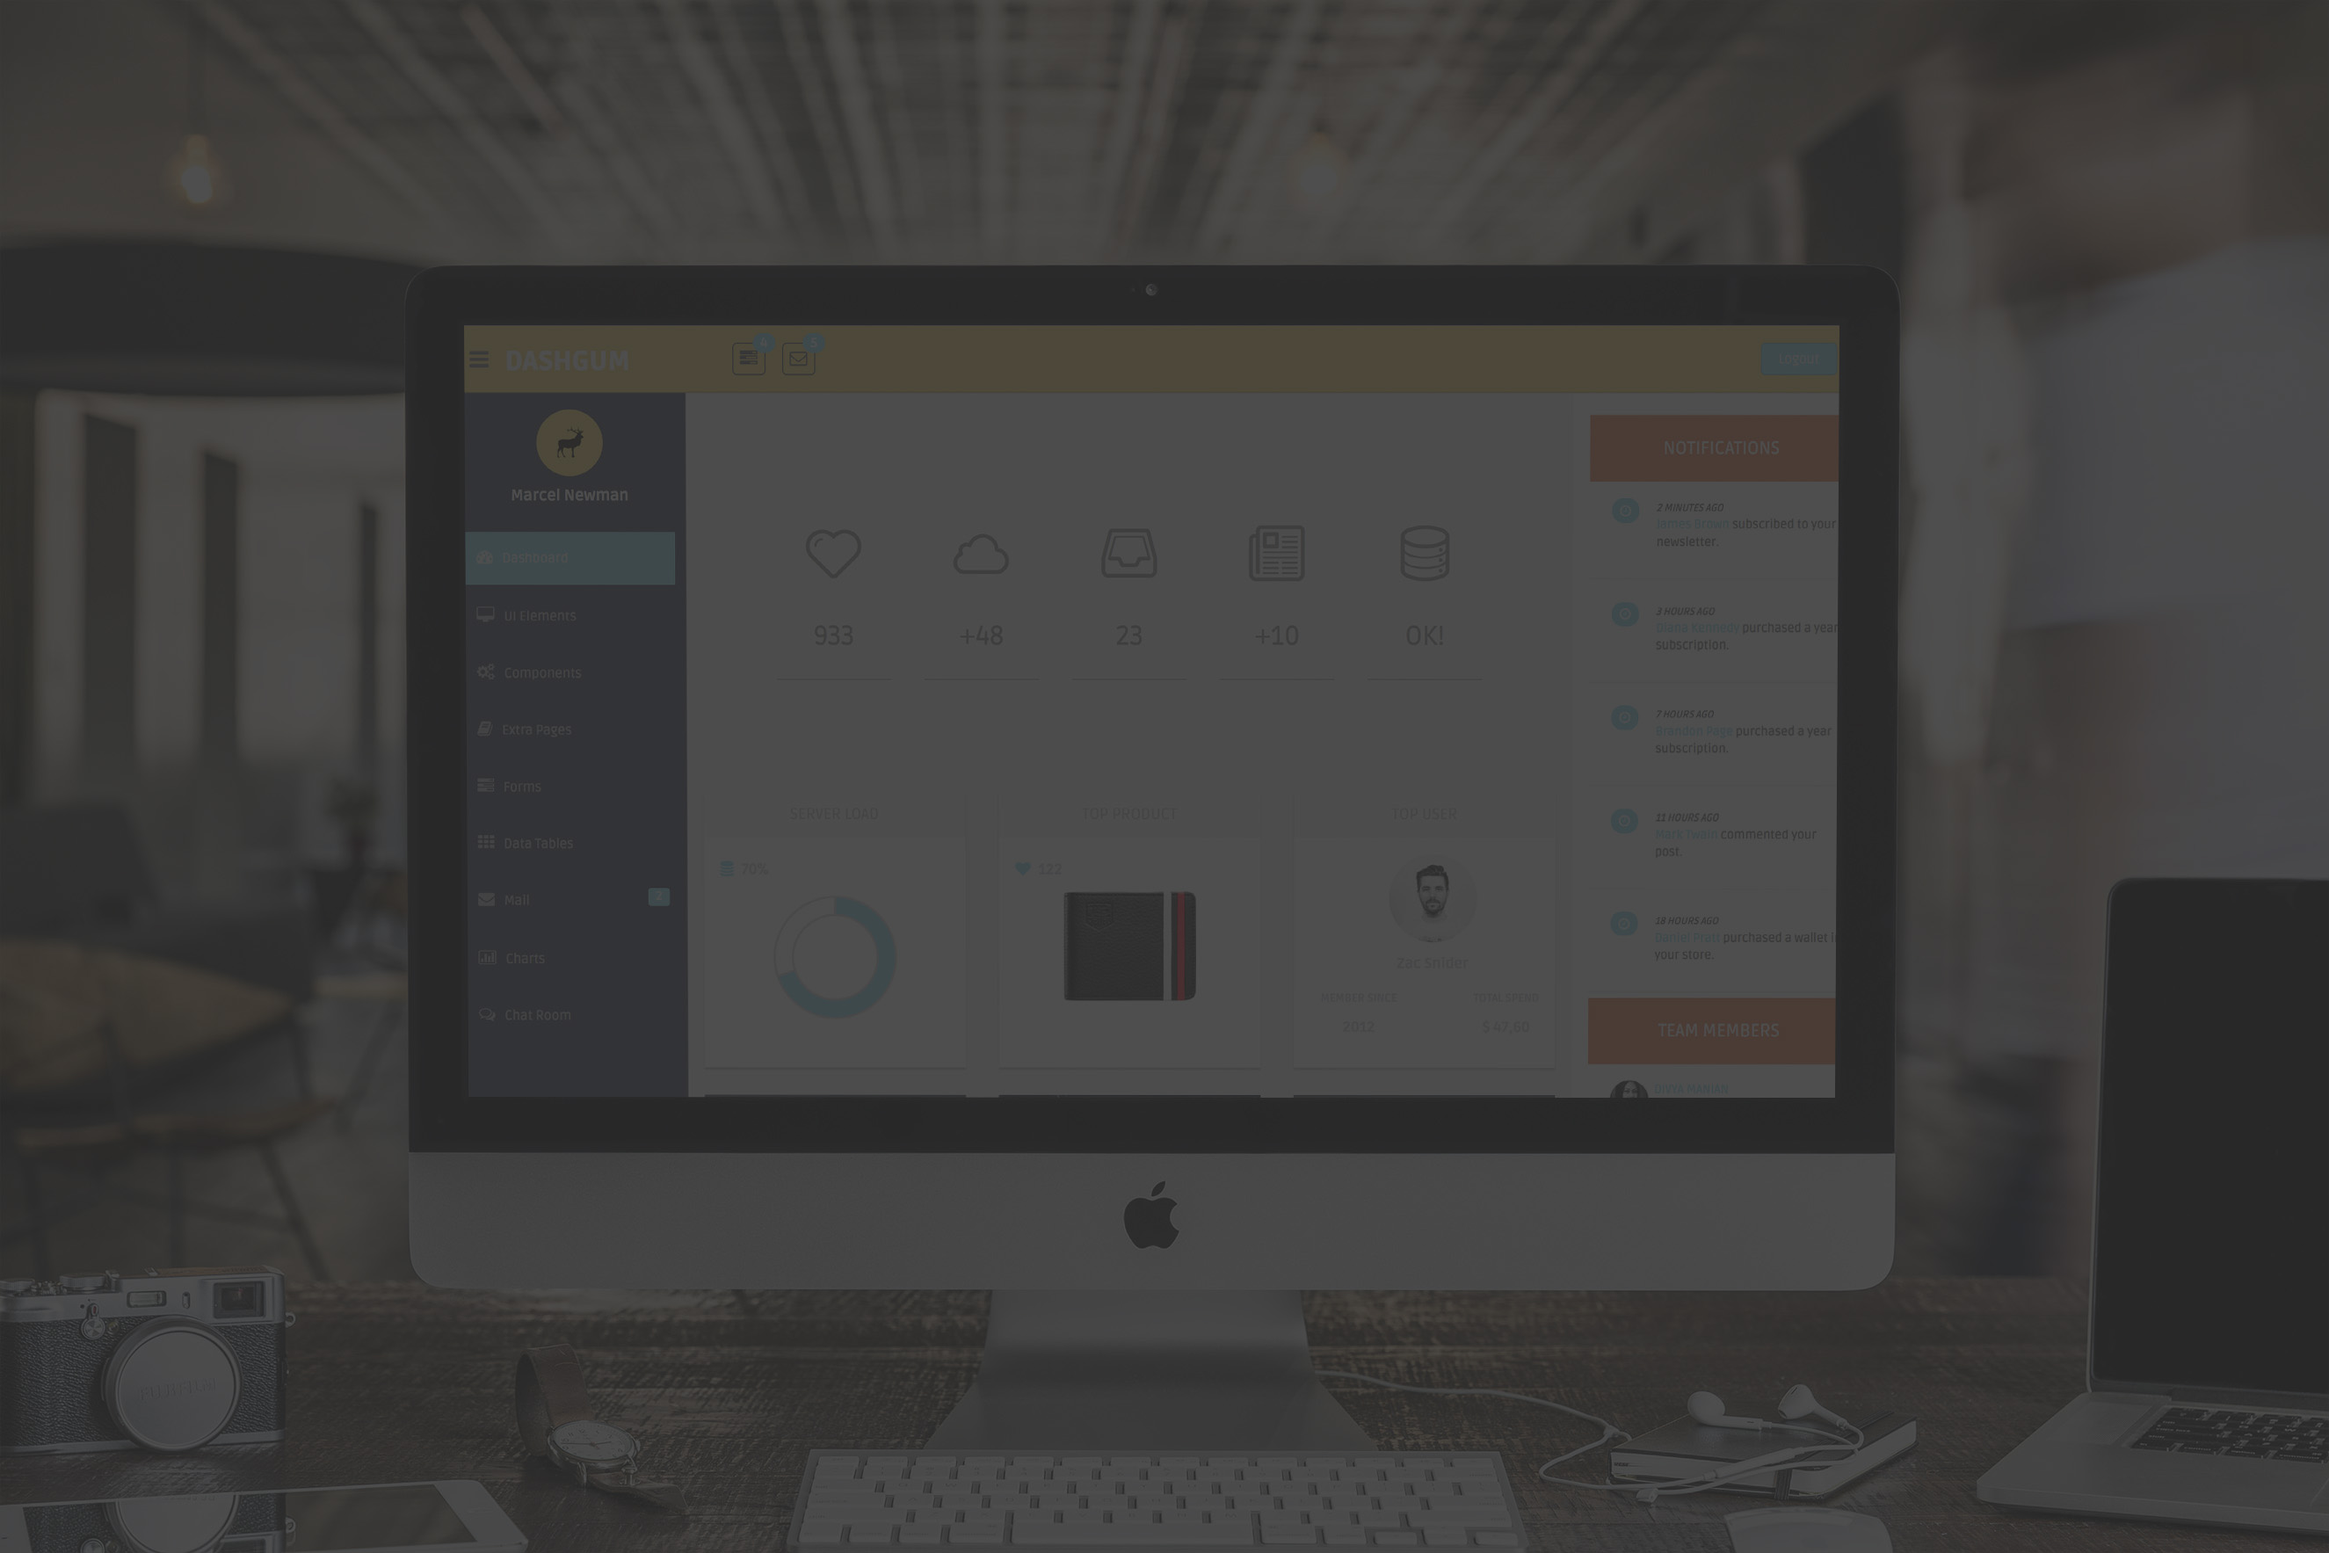
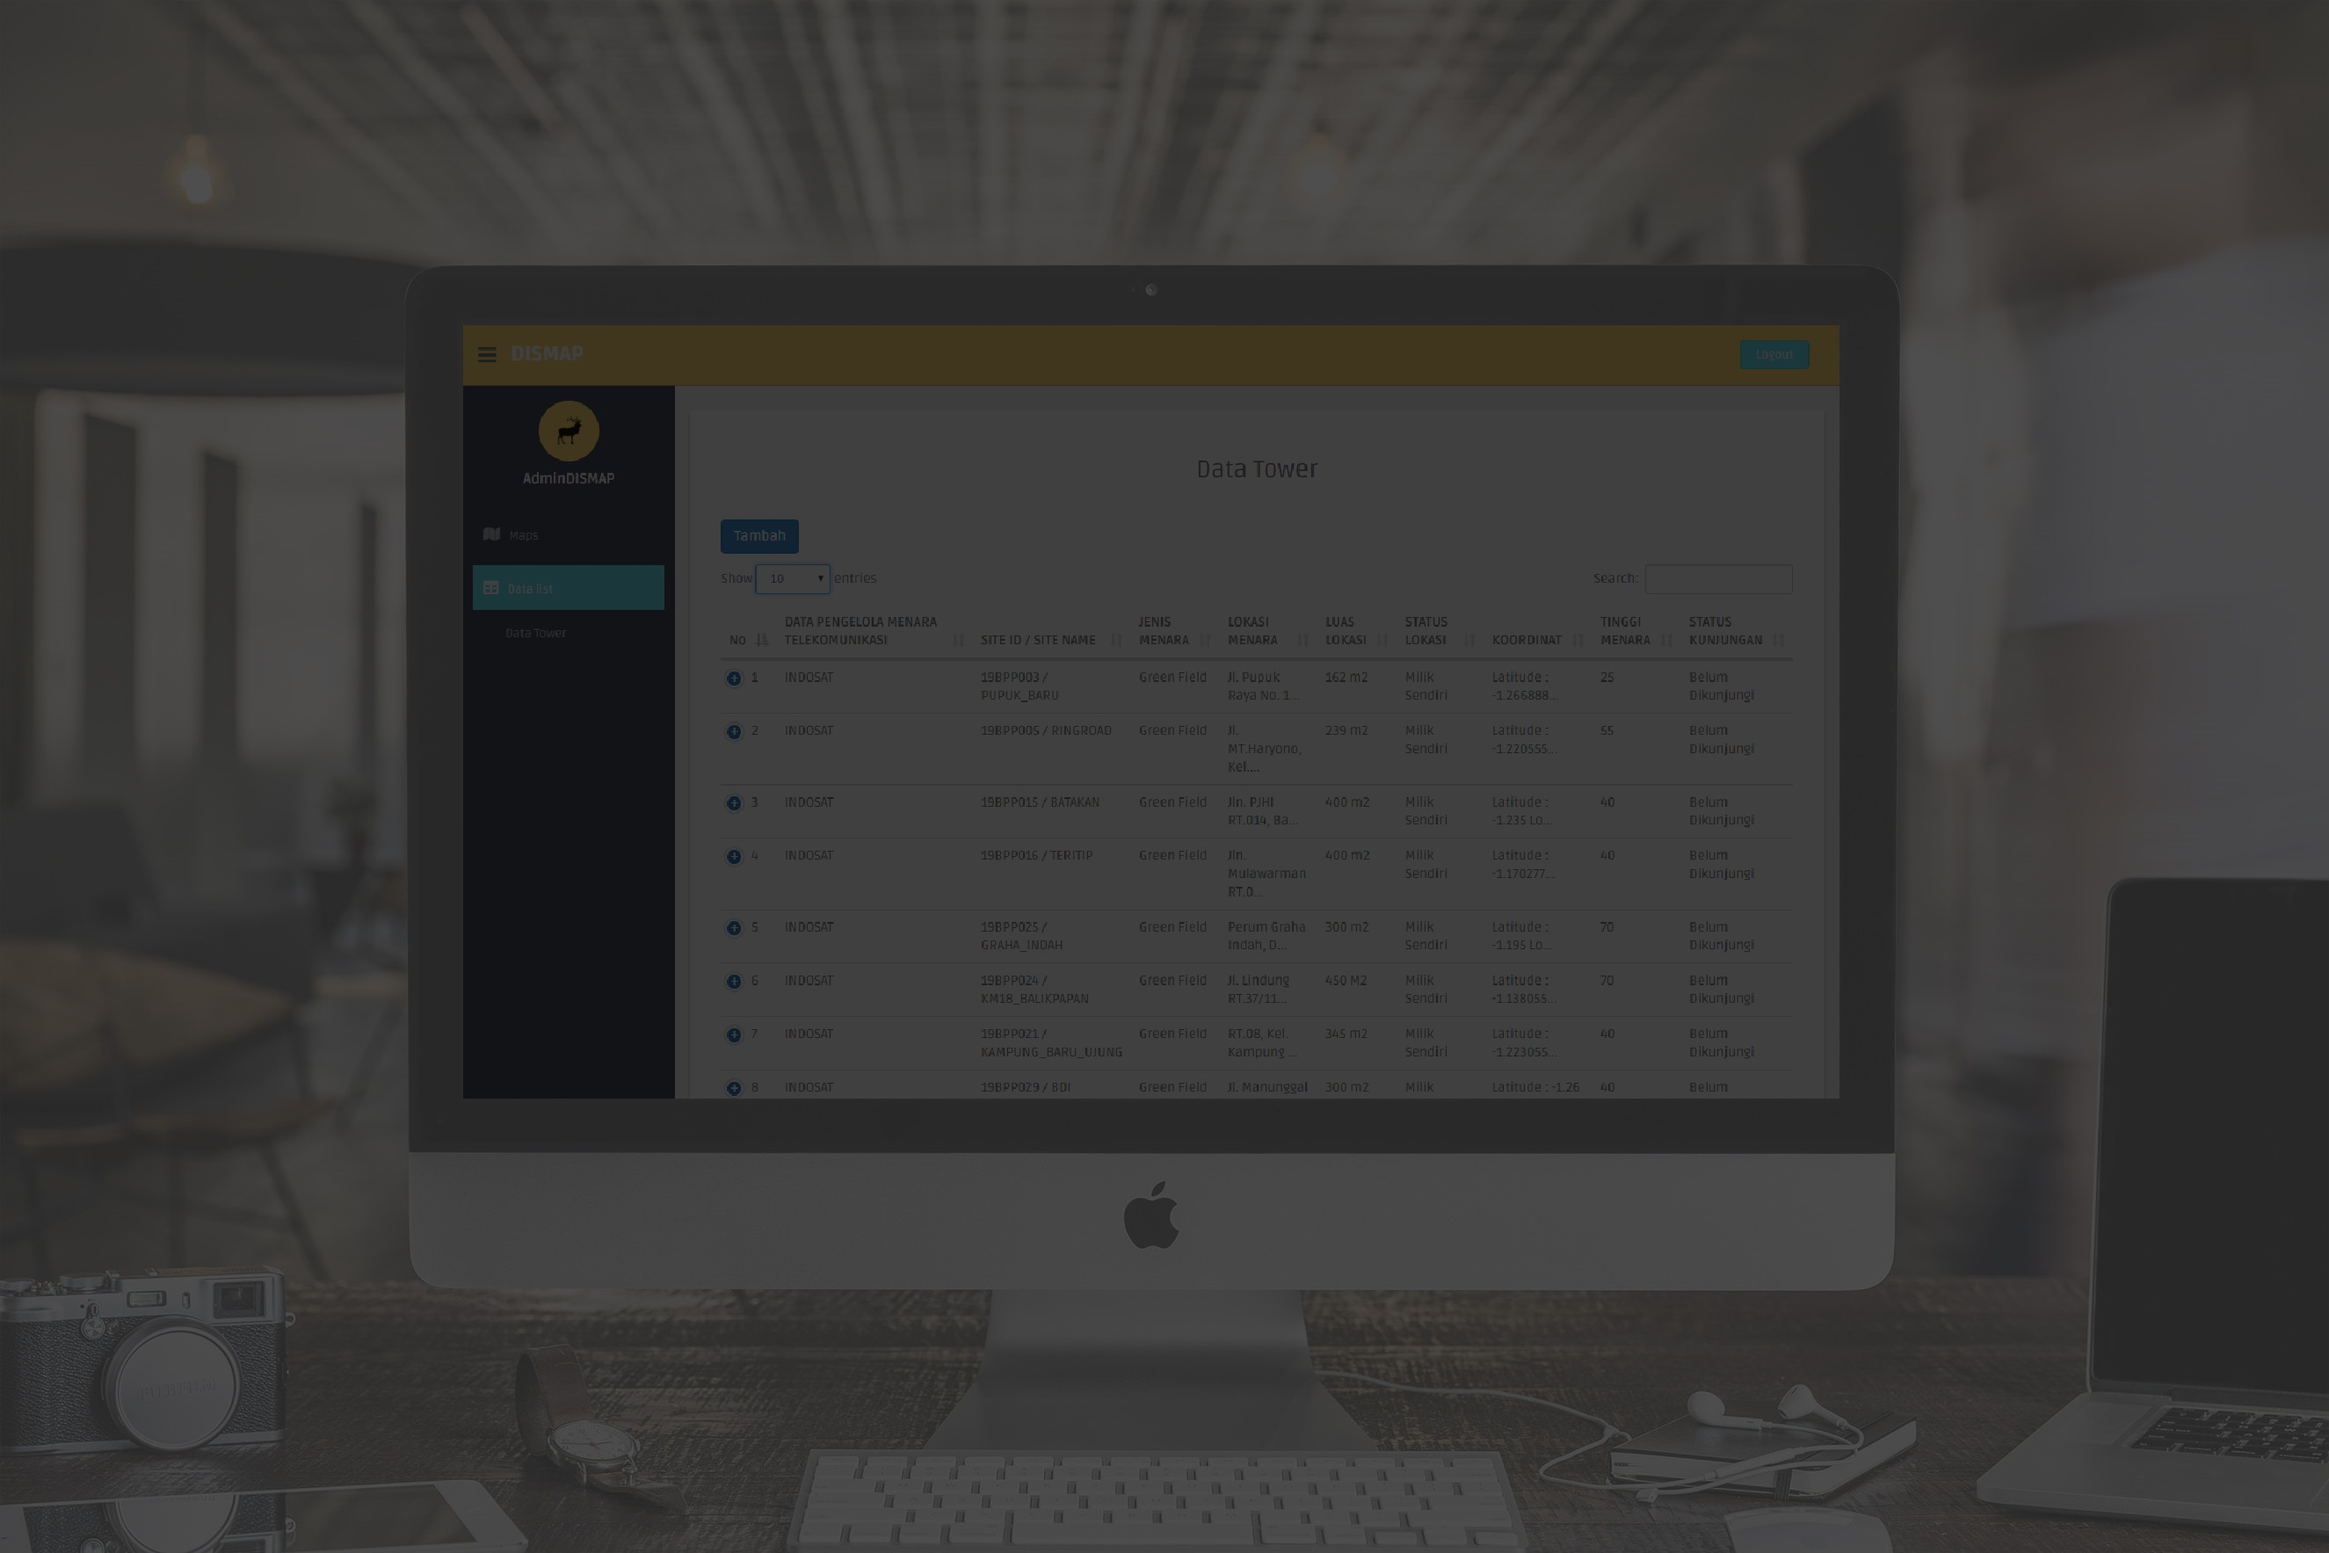
done auth

diff --git a/resources/views/dismap/login.blade.php b/resources/views/dismap/login.blade.php
@@ -1,0 +1,73 @@
+<!DOCTYPE html>
+<html lang="en">
+  <head>
+    <meta charset="utf-8">
+    <meta name="viewport" content="width=device-width, initial-scale=1.0">
+    <meta name="description" content="">
+    <meta name="author" content="Dashboard">
+    <meta name="keyword" content="Dashboard, Bootstrap, Admin, Template, Theme, Responsive, Fluid, Retina">
+
+    <title>DISMAP</title>
+
+    <!-- Bootstrap core CSS -->
+    <link href="{{ asset('assets/css/bootstrap.css') }}" rel="stylesheet">
+    <!--external css-->
+    <link href="{{ asset('assets/font-awesome/css/font-awesome.css') }}" rel="stylesheet" />
+        
+    <!-- Custom styles for this template -->
+    <link href="{{ asset('assets/css/style.css') }}" rel="stylesheet">
+    <link href="{{ asset('assets/css/style-responsive.css') }}" rel="stylesheet">
+
+    <!-- HTML5 shim and Respond.js IE8 support of HTML5 elements and media queries -->
+    <!--[if lt IE 9]>
+      <script src="https://oss.maxcdn.com/libs/html5shiv/3.7.0/html5shiv.js"></script>
+      <script src="https://oss.maxcdn.com/libs/respond.js/1.4.2/respond.min.js"></script>
+    <![endif]-->
+  </head>
+
+  <body>
+
+      <!-- **********************************************************************************************************************************************************
+      MAIN CONTENT
+      *********************************************************************************************************************************************************** -->
+
+	  <div id="login-page">
+	  	<div class="container"> 	
+            <form class="form-login" action="" method="POST">
+                <h2 class="form-login-heading">sign in now</h2>
+                <div class="login-wrap">
+                    @if (session()->has('message'))
+                    <div class="alert alert-danger">
+                        <button class="close" data-dismiss="alert" aria-hidden="true">&times;</button>
+                        <strong>Warning ! </strong> {{ session('message') }}
+                    </div>
+                    @endif
+                    {{ csrf_field() }}
+                    <input type="text" class="form-control" placeholder="Username" name="username" autofocus autocomplete="off">
+                    <br>
+                    <input type="password" class="form-control" placeholder="Password" name="password">
+                    <label class="checkbox">
+                        <span class="pull-right">
+                            <a data-toggle="modal" href="login.html#myModal"> Forgot Password?</a>
+                        </span>
+                    </label>
+                    <button class="btn btn-theme btn-block" type="submit"><i class="fa fa-lock"></i> SIGN IN</button>
+                </div>
+            </form>	  	
+	  	</div>
+	  </div>
+
+    <!-- js placed at the end of the document so the pages load faster -->
+    <script src="{{ asset('assets/js/jquery.js') }}"></script>
+    <script src="{{ asset('assets/js/bootstrap.min.js')}}"></script>
+
+    <!--BACKSTRETCH-->
+    <!-- You can use an image of whatever size. This script will stretch to fit in any screen size.-->
+    <script type="text/javascript" src="assets/js/jquery.backstretch.min.js"></script>
+    <script>
+        $.backstretch("{{ asset('assets/img/login-bg.jpg') }}", {speed: 500});
+    </script>
+
+
+  </body>
+</html>

diff --git a/app/Http/Controllers/Auth/LoginController.php b/app/Http/Controllers/Auth/LoginController.php
@@ -2,38 +2,36 @@
 
 namespace App\Http\Controllers\Auth;
 
+use Auth;
+use App\User;
+use Illuminate\Http\Request;
 use App\Http\Controllers\Controller;
 use Illuminate\Foundation\Auth\AuthenticatesUsers;
 
 class LoginController extends Controller
 {
-    /*
-    |--------------------------------------------------------------------------
-    | Login Controller
-    |--------------------------------------------------------------------------
-    |
-    | This controller handles authenticating users for the application and
-    | redirecting them to your home screen. The controller uses a trait
-    | to conveniently provide its functionality to your applications.
-    |
-    */
+    public function logout(){
+        Auth::logout();
+    
+        return redirect('/login');
+      }
 
-    use AuthenticatesUsers;
+    public function login(){
+         return view('dismap/login');
+    }
+    
+    public function authenticate(Request $request){
+        $username = User::where('username', $request->username)->first();
 
-    /**
-     * Where to redirect users after login.
-     *
-     * @var string
-     */
-    protected $redirectTo = '/home';
-
-    /**
-     * Create a new controller instance.
-     *
-     * @return void
-     */
-    public function __construct()
-    {
-        $this->middleware('guest')->except('logout');
+         if ($username != null) {
+            $berhasil = Auth::attempt(['username'=>$request->username, 'password'=>$request->password]);
+            if($berhasil){
+                return redirect('/dismap/maps');
+            }else{
+                return redirect()->back()->with('message', 'Username atau password salah.');
+            }
+        }else{
+            return redirect()->back()->with('message', 'Username tidak ditemukan.');
+        }
     }
 }

diff --git a/routes/web.php b/routes/web.php
@@ -10,12 +10,22 @@
 | contains the "web" middleware group. Now create something great!
 |
 */
+Route::get('/', function(){
+    return redirect('/login');
+});
 
-Route::get('/dismap/maps', 'PagesController@index');
+Route::get('/login', ['as' => 'login', 'uses' => 'Auth\LoginController@login']);
+Route::post('/login', 'Auth\LoginController@Authenticate');
 
-Route::get('/dismap/data-tower', 'PagesController@towerIndex');
-Route::post('/dismap/data-tower/add', 'DataController@towerStore');
-Route::get('/dismap/data-tower/edit/{id}', 'DataController@towerEdit');
-Route::post('/dismap/data-tower/edit/{id}', 'DataController@towerUpdate');
-Route::get('/dismap/data-tower/view/{id}', 'DataController@towerView');
-Route::get('/dismap/data-tower/delete/{id}', 'DataController@towerDestroy');
+Route::group(['middleware'=>'auth'], function(){
+    Route::get('/dismap/maps', 'PagesController@index');
+    
+    Route::get('/dismap/data-tower', 'PagesController@towerIndex');
+    Route::post('/dismap/data-tower/add', 'DataController@towerStore');
+    Route::get('/dismap/data-tower/edit/{id}', 'DataController@towerEdit');
+    Route::post('/dismap/data-tower/edit/{id}', 'DataController@towerUpdate');
+    Route::get('/dismap/data-tower/view/{id}', 'DataController@towerView');
+    Route::get('/dismap/data-tower/delete/{id}', 'DataController@towerDestroy');
+
+    Route::get('/logout', 'Auth\LoginController@logout');
+});

diff --git a/resources/views/layouts/dashboard.blade.php b/resources/views/layouts/dashboard.blade.php
@@ -48,7 +48,7 @@
             </div>
             <div class="top-menu">
             	<ul class="nav pull-right top-menu">
-                    <li><a class="logout" href="login.html">Logout</a></li>
+                    <li><a class="logout" href="/logout">Logout</a></li>
             	</ul>
             </div>
         </header>
@@ -64,7 +64,7 @@
               <ul class="sidebar-menu" id="nav-accordion">
 
               	  <p class="centered"><a href="profile.html"><img src="{{ asset('assets/img/ui-sam.jpg')}}" class="img-circle" width="60"></a></p>
-              	  <h5 class="centered">Nama User Yang Sedang Login</h5>
+              	  <h5 class="centered">{{ Auth::user()->username }}</h5>
                   <li class="mt">
                       <a class="@yield('maps')" href="/dismap/maps">
                           <i class="fa fa-map"></i>

diff --git a/config/app.php b/config/app.php
@@ -65,7 +65,7 @@ return [
     |
     */
 
-    'timezone' => 'UTC',
+    'timezone' => 'Asia/Kuala_Lumpur',
 
     /*
     |--------------------------------------------------------------------------
